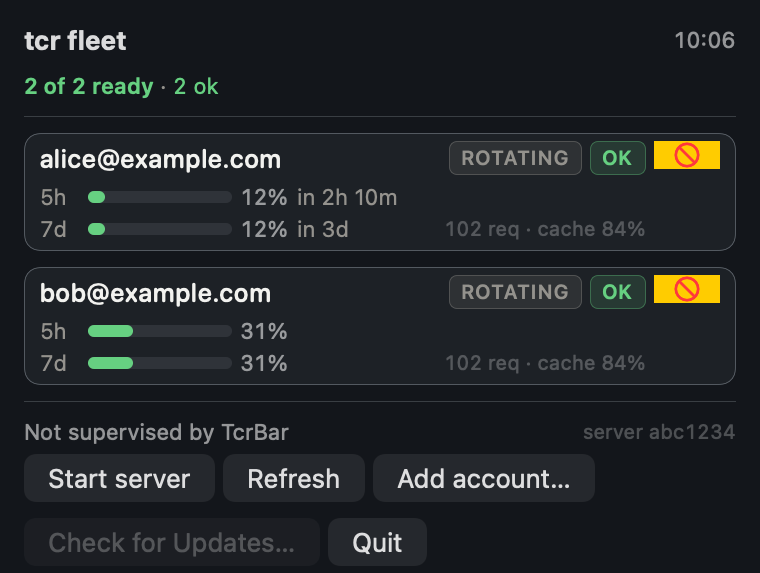
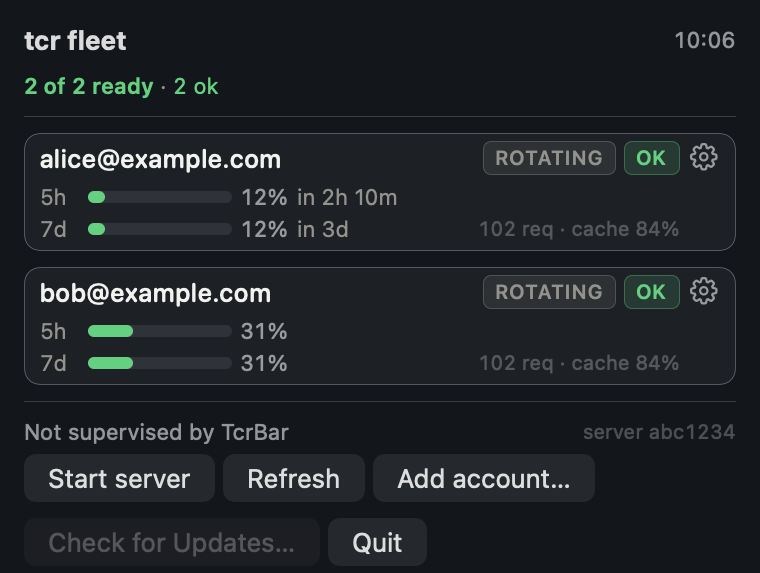
fix: render the account gear as a plain glyph in snapshots, and stop repeating the re-login count
FleetView.snapshotMode now draws accountActionsMenu's label directly instead
of wrapping it in a Menu, because ImageRenderer cannot draw a Menu and was
rasterising a yellow prohibition placeholder in its place — visible in the
public README hero. Re-rendered and re-cropped the four README panel PNGs
the same way 93f7056 did.

Fleet.breakdown no longer repeats the needsRelogin and unmeasured buckets
that Fleet.capacitySummary already names in its own clauses, which is what
produced a header reading "1 of 2 ready · 1 need re-login · 1 ok · 1 need
re-login". Added/adjusted FleetStatusTests to pin the de-duplicated line and
verified the new test fails against the pre-fix bucket order before
restoring the fix.

diff --git a/apps/macos/Tests/TcrBarTests/FleetStatusTests.swift b/apps/macos/Tests/TcrBarTests/FleetStatusTests.swift
@@ -766,13 +766,21 @@ final class FleetNeedsReloginTests: XCTestCase {
         XCTAssertEqual(fleet.needsReloginCount, 1)
     }
 
+    /// `needsReloginCount` is the bucket now — `breakdown` omits it because
+    /// `capacitySummary` already names it, and repeating it produced the
+    /// duplicated header `"1 of 2 ready · 1 need re-login · 1 ok · 1 need
+    /// re-login"`.
     func testBrokenAccountGetsItsOwnBreakdownBucket() {
         let fleet = Fleet(accounts: [
             account("alice@example.com", state: .ok),
             brokenAccount("dave@example.com"),
             brokenAccount("erin@example.com"),
         ])
-        XCTAssertEqual(fleet.breakdownLabel, "1 ok · 2 need re-login")
+        XCTAssertEqual(fleet.needsReloginCount, 2)
+        XCTAssertEqual(
+            fleet.breakdownLabel, "1 ok",
+            "capacitySummary already names the broken accounts — breakdown must not repeat them"
+        )
     }
 
     func testCapacitySummaryNamesTheBrokenAccounts() {
@@ -781,6 +789,27 @@ final class FleetNeedsReloginTests: XCTestCase {
             brokenAccount("dave@example.com"),
         ])
         XCTAssertEqual(fleet.capacitySummary, "1 of 2 ready · 1 need re-login")
+    }
+
+    /// The exact duplication a live fleet with a broken account produced:
+    /// `capacitySummary` names the re-login bucket, and `breakdown` used to
+    /// name it again, so the header — `capacitySummary` plus every
+    /// `breakdown` tally, joined by `" · "` (`FleetView.capacitySummary(_:)`)
+    /// — read `"1 of 2 ready · 1 need re-login · 1 ok · 1 need re-login"`.
+    /// Watch this fail first: reverting `breakdown`'s `order` to include
+    /// `.needsRelogin` reproduces the repeat.
+    func testHeaderLineDoesNotRepeatTheNeedsReloginFact() {
+        let fleet = Fleet(accounts: [
+            account("alice@example.com", state: .ok),
+            brokenAccount("dave@example.com"),
+        ])
+        let headerLine = ([fleet.capacitySummary] + fleet.breakdown.map(\.label))
+            .joined(separator: " · ")
+        XCTAssertEqual(headerLine, "1 of 2 ready · 1 need re-login · 1 ok")
+        XCTAssertEqual(
+            headerLine.components(separatedBy: "need re-login").count - 1, 1,
+            "\"need re-login\" must appear exactly once in the rendered header line"
+        )
     }
 
     /// The case that used to say "No confirmed capacity · 5 unmeasured" for a
@@ -980,22 +1009,34 @@ final class FleetProbedThenBrokenTests: XCTestCase {
         )
     }
 
+    /// The bucket is `needsReloginCount`, not `breakdown`: `breakdown` omits
+    /// `.needsRelogin` because `capacitySummary` already names it (see
+    /// `FleetNeedsReloginTests.testHeaderLineDoesNotRepeatTheNeedsReloginFact`).
+    /// What this test still pins is "not `.ok`" — dave must not land in the
+    /// bucket that reads him as ready-and-serving.
     func testProbedThenBrokenAccountGetsTheNeedsReloginBreakdownBucketNotOk() {
         let fleet = Fleet(accounts: [
             account("alice@example.com", state: .ok),
             probedThenBrokenAccount("dave@example.com"),
         ])
-        XCTAssertEqual(fleet.breakdownLabel, "1 ok · 1 need re-login")
+        XCTAssertEqual(fleet.needsReloginCount, 1)
+        XCTAssertEqual(fleet.breakdownLabel, "1 ok", "dave must not inflate the ok bucket")
     }
 
     /// Same class, different quota state: a spent-then-broken account must
     /// also land in `needsRelogin`, not `spent` — the bucket answers "why is
     /// this not ready", and the answer is the credential, not the quota.
+    /// `breakdownLabel` is empty here because the fleet's only account is the
+    /// broken one, and `.needsRelogin` is excluded from `breakdown` —
+    /// `capacitySummary` (asserted below) is where it is named.
     func testSpentThenBrokenAccountAlsoBucketsAsNeedsReloginNotSpent() {
         let fleet = Fleet(accounts: [
             probedThenBrokenAccount("dave@example.com", quota: 1.0, quotaState: .spent)
         ])
-        XCTAssertEqual(fleet.breakdownLabel, "1 need re-login")
+        XCTAssertEqual(fleet.needsReloginCount, 1)
+        XCTAssertFalse(fleet.breakdownLabel.contains("spent"), "must not bucket as spent")
+        XCTAssertEqual(fleet.breakdownLabel, "")
+        XCTAssertEqual(fleet.capacitySummary, "No capacity · 1 need re-login")
     }
 }
 

diff --git a/apps/macos/Sources/TcrBar/FleetView.swift b/apps/macos/Sources/TcrBar/FleetView.swift
@@ -275,7 +275,8 @@ struct FleetView: View {
             onRelogin: { reloginAccount(account.name) },
             groupController: groupController,
             removeController: removeController,
-            allAccounts: fleet.accounts
+            allAccounts: fleet.accounts,
+            snapshotMode: snapshotMode
         )
         .background(
             GeometryReader { proxy in
@@ -751,6 +752,13 @@ struct AccountRow: View {
     /// account is not already in, not just the ones visible in whatever
     /// section this row happens to be drawn under.
     let allAccounts: [Account]
+    /// Mirrors ``FleetView/snapshotMode``. `ImageRenderer` cannot draw a
+    /// `Menu` — it rasterises the yellow "unsupported control" placeholder
+    /// the README hero used to ship — so a snapshot draws
+    /// ``accountActionsMenuLabel`` on its own, with no `Menu` wrapping it.
+    /// Defaults to `false` so every other call site (the live panel) is
+    /// unchanged.
+    var snapshotMode: Bool = false
 
     /// The single tint for this row's quota evidence. The bar and the
     /// percentage run both read it, so the two can never disagree about
@@ -1399,24 +1407,44 @@ struct AccountRow: View {
     /// and a bordered icon-only control reads as heavier chrome than a
     /// 13pt row wants. This is the one icon-only control in the panel, so
     /// there is no existing icon-menu style to match instead.
+    @ViewBuilder
     private var accountActionsMenu: some View {
-        Menu {
-            contextMenuItems
-        } label: {
-            Image(systemName: "gearshape")
-                .font(Tok.bodyFont)
-                .foregroundStyle(.secondary)
-                // The Menu's own `.accessibilityLabel` below names the
-                // control; without hiding the glyph too, VoiceOver reads
-                // both the image ("gearshape, image") and the label,
-                // announcing the same control twice.
-                .accessibilityHidden(true)
+        if snapshotMode {
+            // `ImageRenderer` cannot draw a `Menu` at all — it rasterises a
+            // yellow prohibition glyph in its place, which is what shipped
+            // in the README hero before this branch existed. A snapshot
+            // draws the label on its own, non-interactive, so the PNG shows
+            // the gearshape a user actually sees on the live panel.
+            accountActionsMenuLabel
+                .controlSize(.small)
+                .fixedSize()
+                .accessibilityLabel("Account actions for \(account.name)")
+                .help("Enable/disable, re-login, or copy the account name.")
+        } else {
+            Menu {
+                contextMenuItems
+            } label: {
+                accountActionsMenuLabel
+            }
+            .menuStyle(.borderlessButton)
+            .controlSize(.small)
+            .fixedSize()
+            .accessibilityLabel("Account actions for \(account.name)")
+            .help("Enable/disable, re-login, or copy the account name.")
         }
-        .menuStyle(.borderlessButton)
-        .controlSize(.small)
-        .fixedSize()
-        .accessibilityLabel("Account actions for \(account.name)")
-        .help("Enable/disable, re-login, or copy the account name.")
+    }
+
+    /// The gearshape glyph shared by the live `Menu` and its `snapshotMode`
+    /// stand-in, so the two can never draw two different icons.
+    private var accountActionsMenuLabel: some View {
+        Image(systemName: "gearshape")
+            .font(Tok.bodyFont)
+            .foregroundStyle(.secondary)
+            // The Menu's own `.accessibilityLabel` below names the
+            // control; without hiding the glyph too, VoiceOver reads
+            // both the image ("gearshape, image") and the label,
+            // announcing the same control twice.
+            .accessibilityHidden(true)
     }
 
     /// The one place `tcr enable`/`tcr disable` is actually run. Shared by

diff --git a/apps/macos/Sources/TcrBarCore/FleetStatus.swift b/apps/macos/Sources/TcrBarCore/FleetStatus.swift
@@ -1299,6 +1299,14 @@ public struct Fleet: Equatable, Sendable {
 
     /// Per-bucket counts in fixed severity order, with empty buckets omitted so
     /// a healthy fleet reads just `"12 ok"`.
+    ///
+    /// `.needsRelogin` and `.unmeasured` are excluded from the order: both are
+    /// already named by ``capacitySummary`` (`"1 need re-login"`,
+    /// `"1 unmeasured"`), and this tally used to name them a second time —
+    /// the header line read `"1 of 2 ready · 1 need re-login · 1 ok · 1 need
+    /// re-login"`. Every other bucket appears in `capacitySummary` only as a
+    /// number folded into `readyCount`, never spelled out on its own, so it
+    /// keeps its place here.
     public var breakdown: [FleetTally] {
         let disabledCount = accounts.count - enabledCount
         var counts: [FleetTally.Kind: Int] = [:]
@@ -1307,7 +1315,7 @@ public struct Fleet: Equatable, Sendable {
         }
         counts[.disabled] = disabledCount
         let order: [FleetTally.Kind] = [
-            .ok, .near, .spent, .unknown, .needsRelogin, .unmeasured, .disabled,
+            .ok, .near, .spent, .unknown, .disabled,
         ]
         return order.compactMap { kind in
             guard let count = counts[kind], count > 0 else { return nil }
